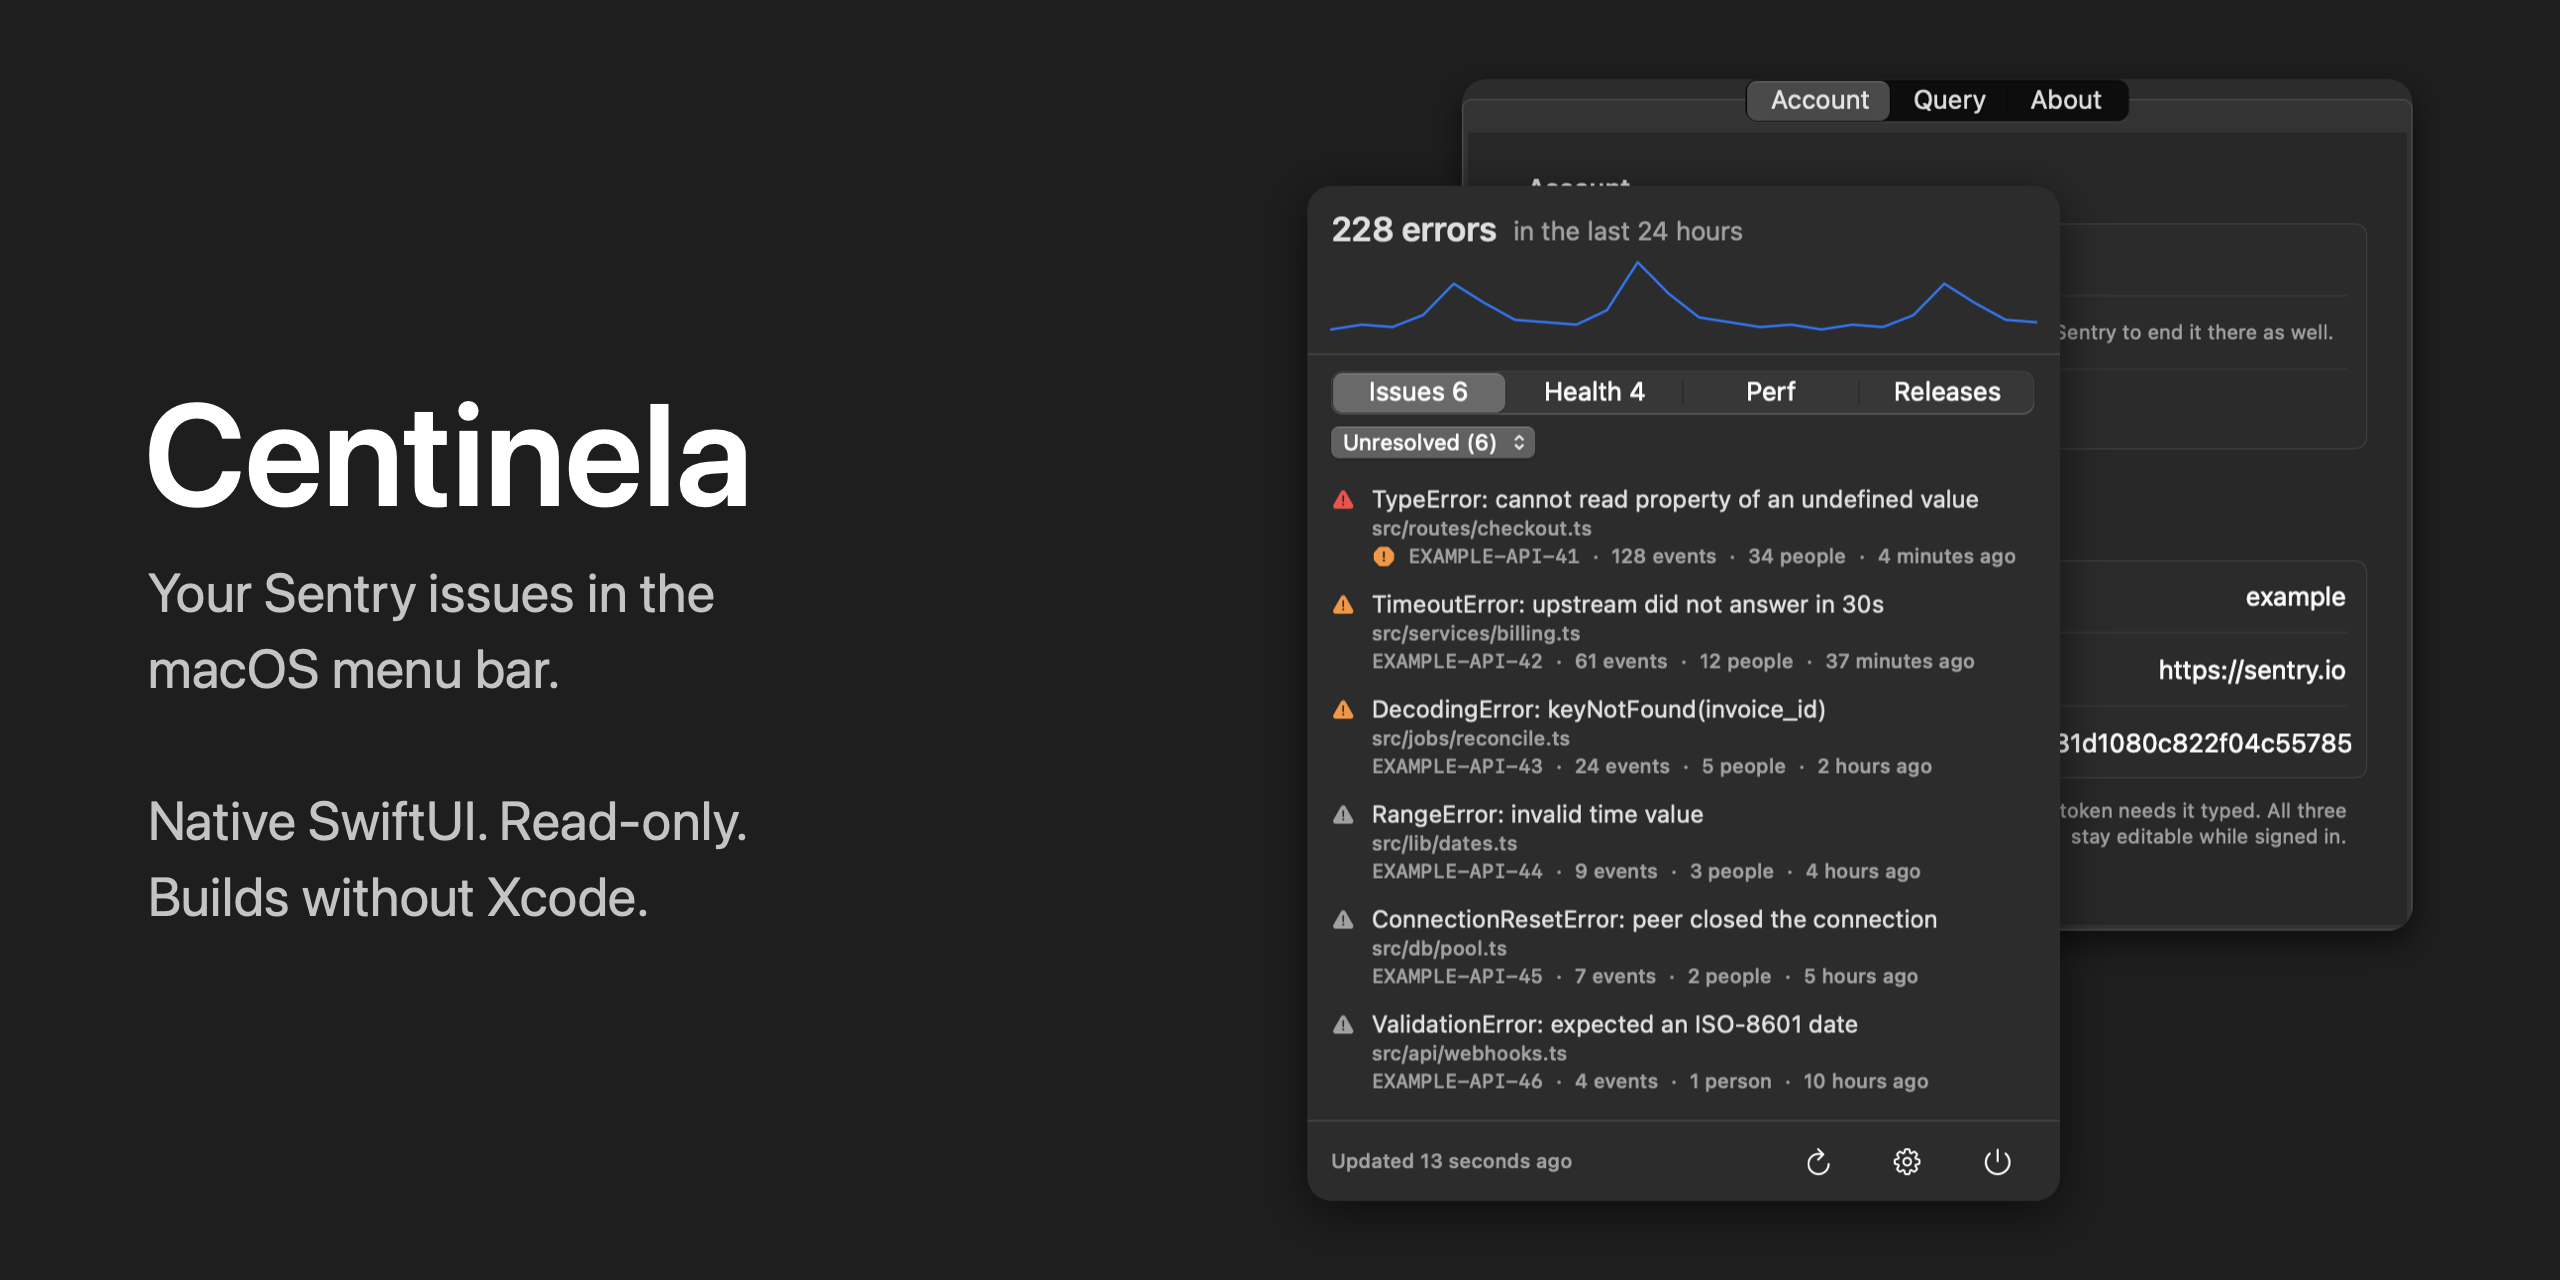
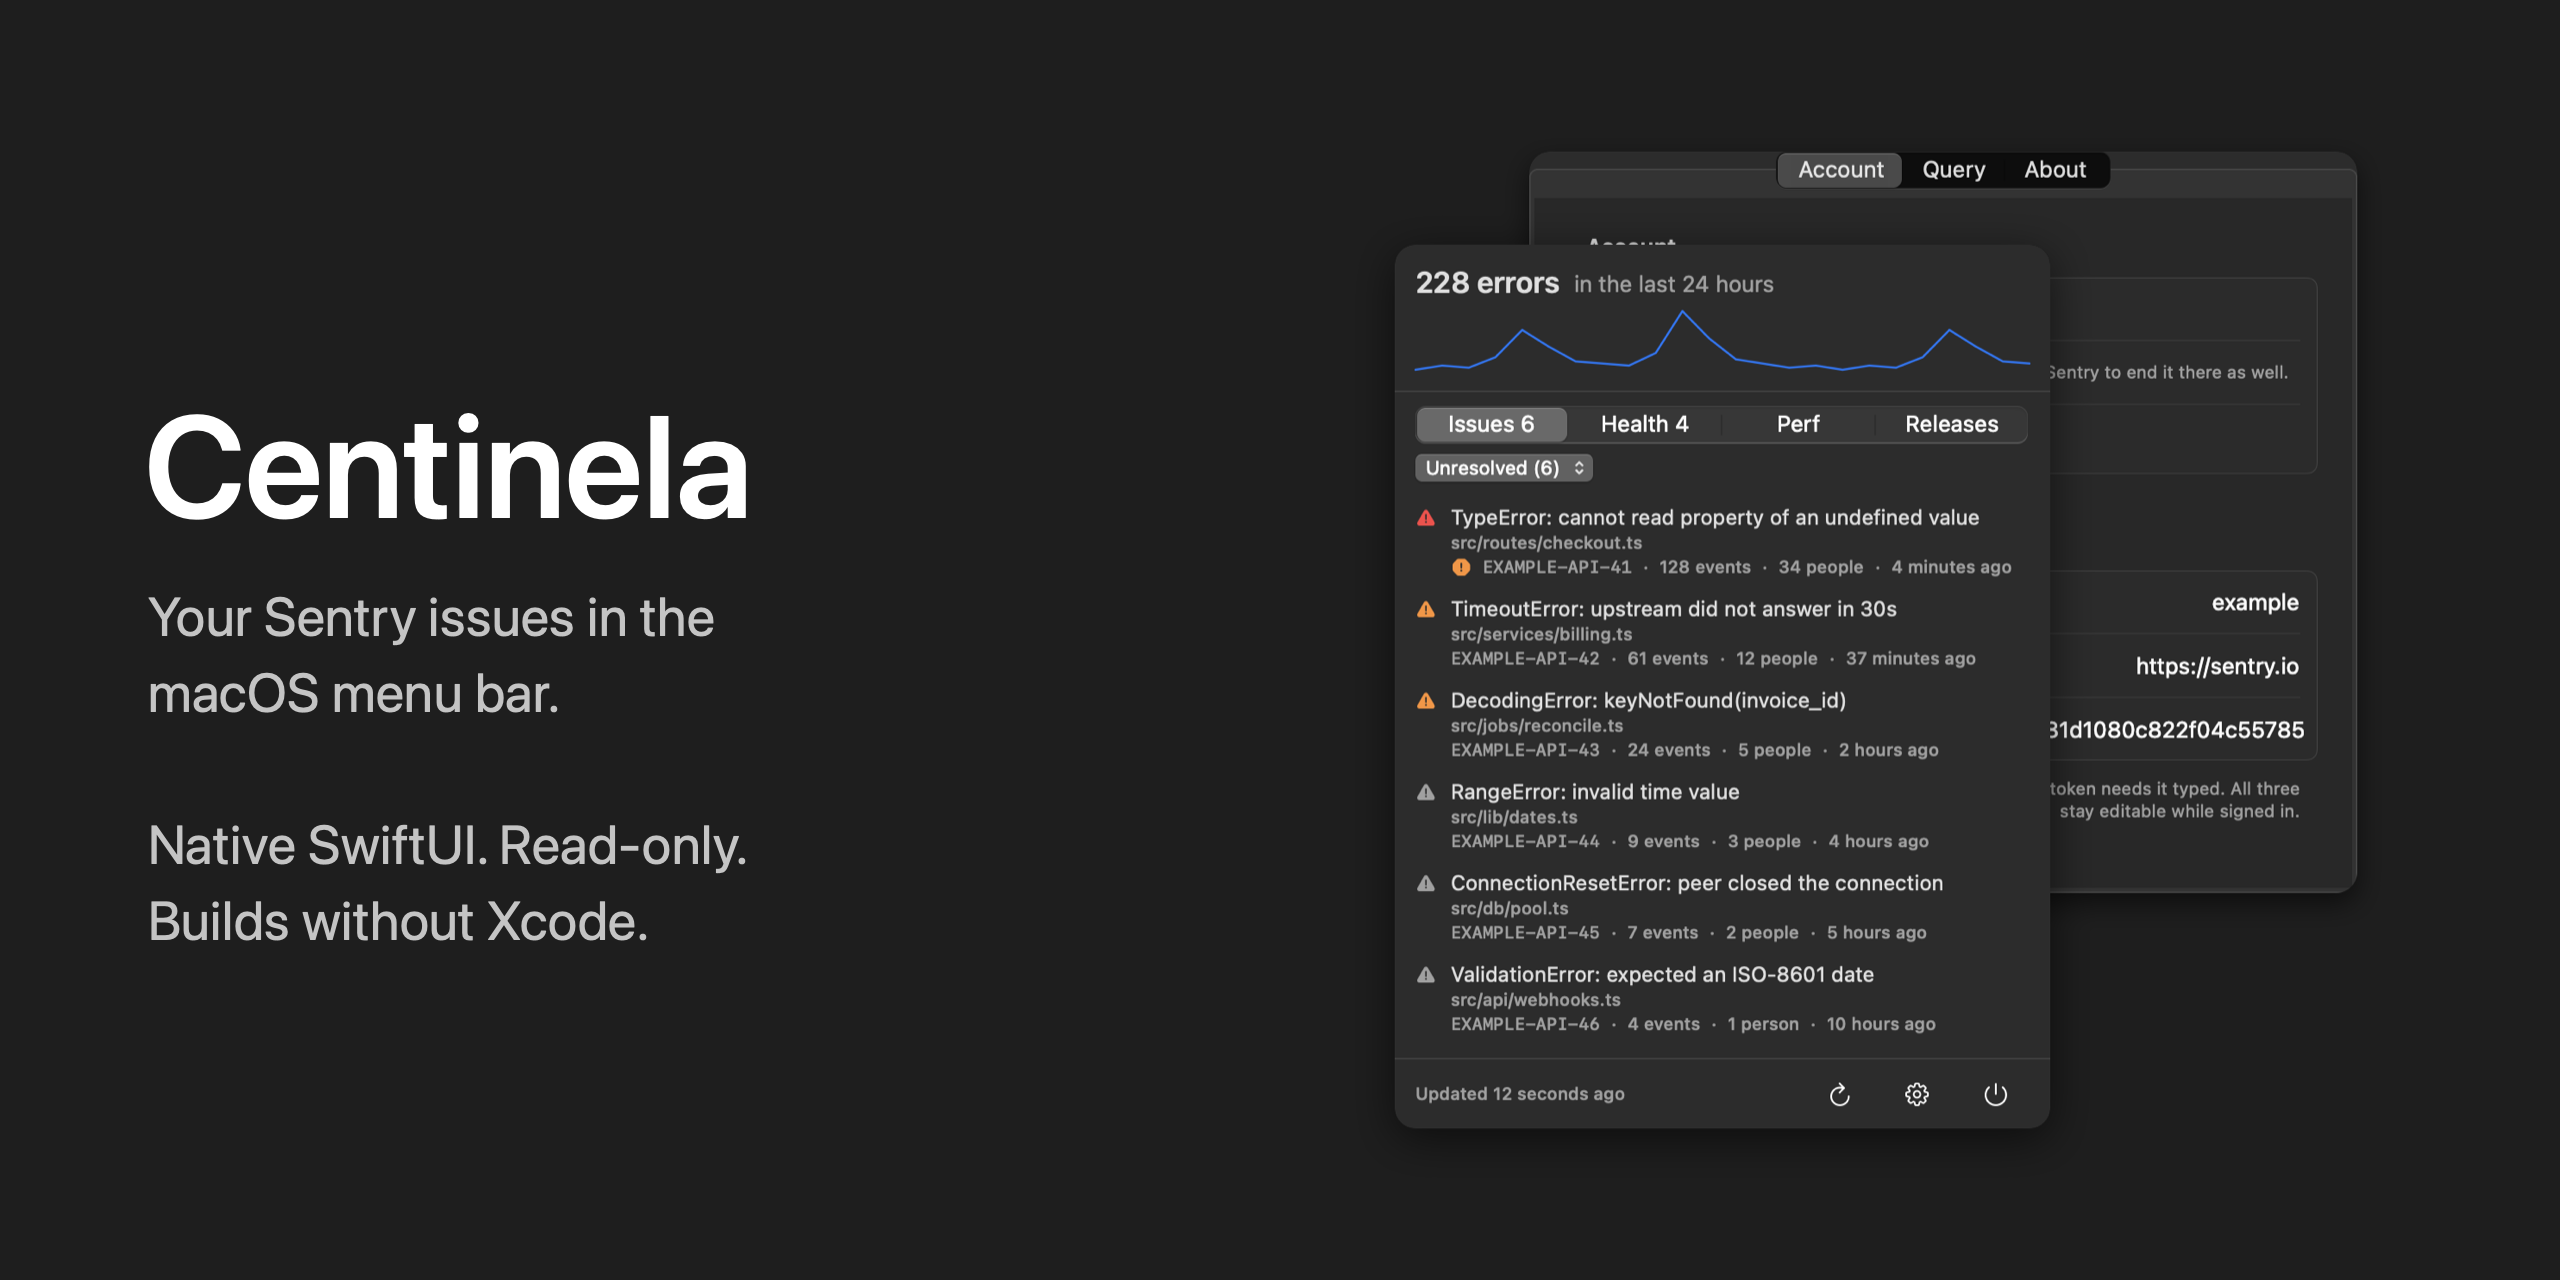
docs: keep the social card inside GitHub own safe border
GitHub template says to leave a 40-point border around anything that matters,
because the card is cropped depending on where it is shown. The panel sat
exactly 40 points from the right edge and the settings window behind it was
already clipped.

Everything is at least 72 points from an edge now. 2560 by 1280 is twice the
recommended size, which displays sharper and still comes to 790 KB, under the
1 MB the docs allow.

Claude-Session: https://claude.ai/code/session_01EnyBemE5XT9BRzHrKcKQFh

diff --git a/Tools/screenshot.swift b/Tools/screenshot.swift
@@ -188,18 +188,21 @@ import SwiftUI
         write(canvas, to: output)
 
         // And the social preview: the image GitHub shows when somebody pastes the link into Slack
-        // or a timeline. 1280 by 640 is what GitHub asks for, and it crops anything else. Made
-        // here rather than by hand so it cannot end up showing a version of the app that no
-        // longer looks like this — the same reason the README picture is generated.
+        // or a timeline. 1280 by 640 is the size it asks for, and its own template says to keep
+        // the parts that matter inside a 40-point border because the card gets cropped — so
+        // everything here sits at least 72 points from an edge, which is that margin with room
+        // to spare. Made here rather than by hand so it cannot end up showing a version of the
+        // app that no longer looks like this.
+        let safe: CGFloat = 72
         let card = NSImage(size: NSSize(width: 1280, height: 640))
         card.lockFocus()
         NSColor(calibratedWhite: 0.09, alpha: 1).setFill()
         NSRect(x: 0, y: 0, width: 1280, height: 640).fill()
 
-        let shotWidth: CGFloat = 620
+        let shotWidth: CGFloat = 540
         let scale = shotWidth / canvas.size.width
         let shotSize = NSSize(width: shotWidth, height: canvas.size.height * scale)
-        canvas.draw(in: NSRect(x: 1280 - shotWidth - 40,
+        canvas.draw(in: NSRect(x: 1280 - shotWidth - safe,
                                y: (640 - shotSize.height) / 2,
                                width: shotSize.width, height: shotSize.height))
 
@@ -207,7 +210,7 @@ import SwiftUI
             .font: NSFont.systemFont(ofSize: 72, weight: .semibold),
             .foregroundColor: NSColor.white
         ])
-        title.draw(at: NSPoint(x: 72, y: 372))
+        title.draw(at: NSPoint(x: safe, y: 366))
 
         let paragraph = NSMutableParagraphStyle()
         paragraph.lineSpacing = 6
@@ -218,7 +221,7 @@ import SwiftUI
                 .foregroundColor: NSColor(calibratedWhite: 0.72, alpha: 1),
                 .paragraphStyle: paragraph
             ])
-        tagline.draw(in: NSRect(x: 74, y: 150, width: 480, height: 210))
+        tagline.draw(in: NSRect(x: safe + 2, y: 148, width: 470, height: 200))
         card.unlockFocus()
         write(card, to: (output as NSString).deletingLastPathComponent + "/social-preview.png")
         print("  escrito: " + (output as NSString).deletingLastPathComponent + "/social-preview.png")
